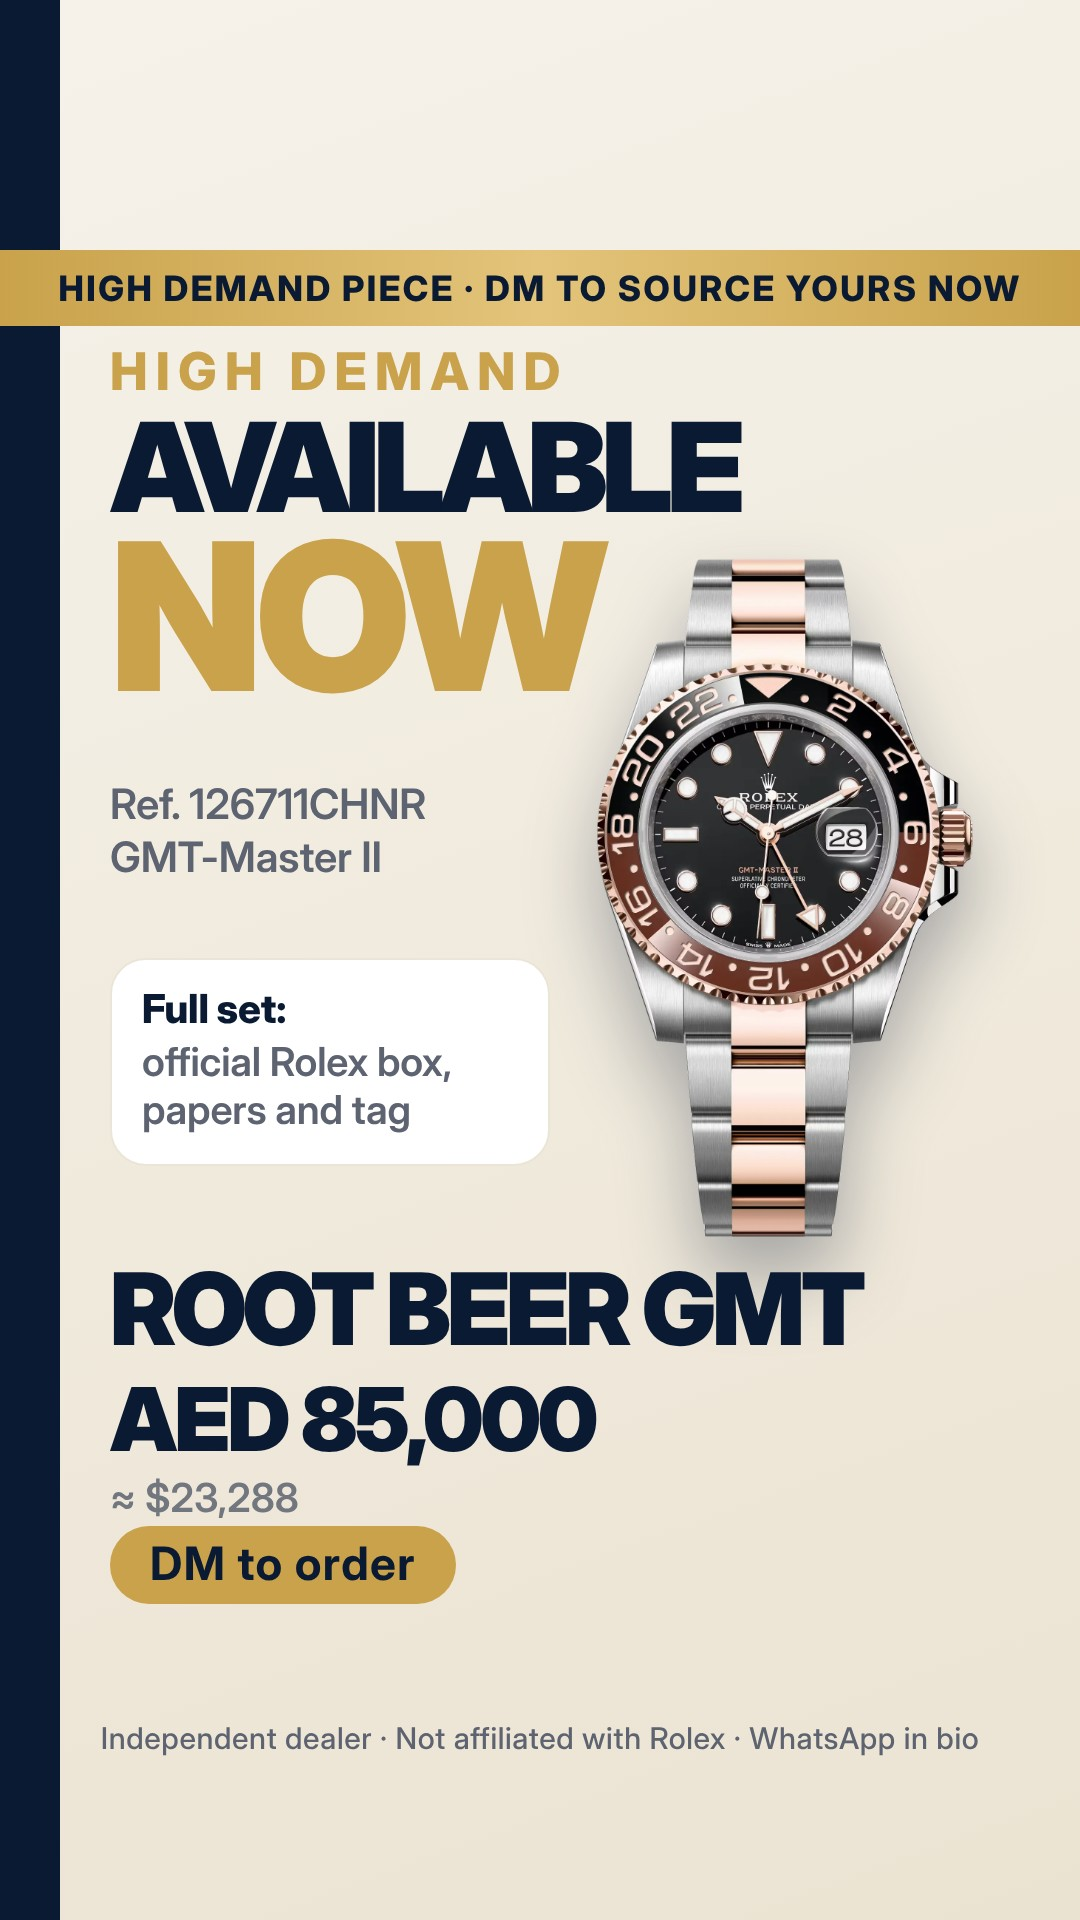
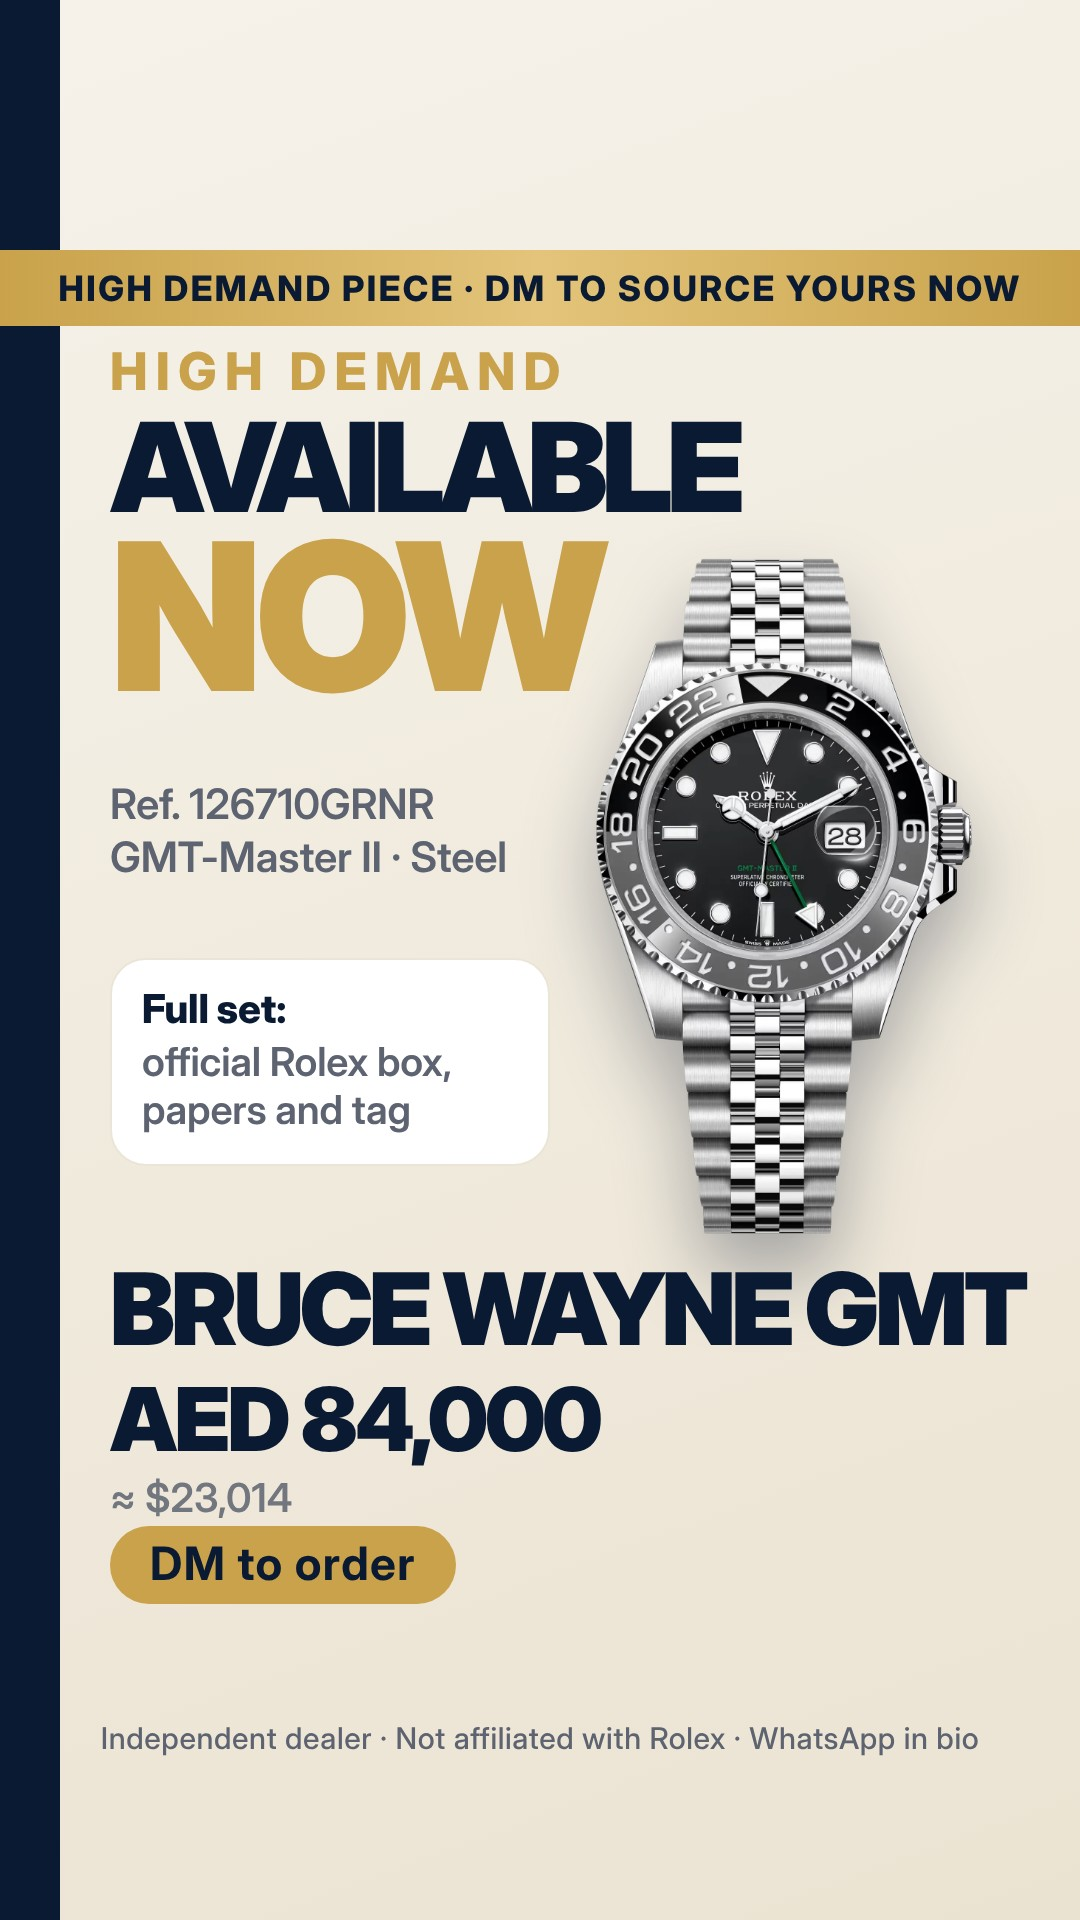
Stories: restore Pepsi, Bruce Wayne, Sprite at listing-1 prices; remove deleted listing-2 from pool
Claude-Session: https://claude.ai/code/session_0196sG434LsFacRR9je27wED

Changed region(s): [[0.1222, 0.2812, 0.9472, 0.7812], [0.275, 0.4062, 0.4889, 0.4688], [0.2139, 0.75, 0.275, 0.8125]]

diff --git a/stories/new-style-v4/templates/2026-12-17_1.html b/stories/new-style-v4/templates/2026-12-17_1.html
@@ -23,12 +23,12 @@ html,body{width:1080px;height:1920px;overflow:hidden;background:#000}
 <div class='bar' style='left:50%;top:262px;width:200px;transform:translateX(-50%)'></div>
 <div class='a c' style='top:296px;font-size:108px;font-weight:900;line-height:.98;letter-spacing:-.04em'>HIGH-DEMAND<br><span style='color:#e3c47a'>DAYTONA</span></div>
 <div class='a' style='left:539px;top:560px;width:3px;height:590px;background:linear-gradient(transparent,#c9a24b,transparent)'></div>
-<div class='a' style='left:60px;top:560px;width:440px;height:590px;display:flex;align-items:center;justify-content:center'><img src='../assets/q_rolexdaytona126506platinumicebluedial.png' style='max-width:100%;max-height:100%;object-fit:contain;filter:drop-shadow(0 30px 34px rgba(0,0,0,.6))'></div>
-<div class='a' style='left:580px;top:560px;width:440px;height:590px;display:flex;align-items:center;justify-content:center'><img src='../assets/q_rolexdaytona126506platinumicebluediamond.png' style='max-width:100%;max-height:100%;object-fit:contain;filter:drop-shadow(0 30px 34px rgba(0,0,0,.6))'></div>
+<div class='a' style='left:60px;top:560px;width:440px;height:590px;display:flex;align-items:center;justify-content:center'><img src='../assets/q_rolexdaytona126506platinumicebluearabicd.png' style='max-width:100%;max-height:100%;object-fit:contain;filter:drop-shadow(0 30px 34px rgba(0,0,0,.6))'></div>
+<div class='a' style='left:580px;top:560px;width:440px;height:590px;display:flex;align-items:center;justify-content:center'><img src='../assets/q_rolexdaytona126506platinumicebluedial.png' style='max-width:100%;max-height:100%;object-fit:contain;filter:drop-shadow(0 30px 34px rgba(0,0,0,.6))'></div>
 <div class='a' style='left:0;width:540px;top:1165px;text-align:center;font-size:68px;font-weight:800;letter-spacing:-.03em'>DAYTONA</div>
 <div class='a' style='left:540px;width:540px;top:1165px;text-align:center;font-size:68px;font-weight:800;letter-spacing:-.03em'>DAYTONA</div>
-<div class='a' style='left:0;width:540px;top:1250px;text-align:center;font-size:60px;font-weight:800;color:#e3c47a'>AED 450,000<div style='font-size:34px;font-weight:600;opacity:.85;letter-spacing:0;line-height:1.2;margin-top:2px;color:rgba(246,242,234,.85);'>≈ $123,288</div></div>
-<div class='a' style='left:540px;width:540px;top:1250px;text-align:center;font-size:60px;font-weight:800;color:#e3c47a'>AED 500,000<div style='font-size:34px;font-weight:600;opacity:.85;letter-spacing:0;line-height:1.2;margin-top:2px;color:rgba(246,242,234,.85);'>≈ $136,986</div></div>
+<div class='a' style='left:0;width:540px;top:1250px;text-align:center;font-size:60px;font-weight:800;color:#e3c47a'>AED 635,000<div style='font-size:34px;font-weight:600;opacity:.85;letter-spacing:0;line-height:1.2;margin-top:2px;color:rgba(246,242,234,.85);'>≈ $173,973</div></div>
+<div class='a' style='left:540px;width:540px;top:1250px;text-align:center;font-size:60px;font-weight:800;color:#e3c47a'>AED 450,000<div style='font-size:34px;font-weight:600;opacity:.85;letter-spacing:0;line-height:1.2;margin-top:2px;color:rgba(246,242,234,.85);'>≈ $123,288</div></div>
 <div class='a' style='left:0;width:540px;top:1378px;text-align:center;font-size:36px;font-weight:500;color:rgba(246,242,234,.8)'>Ref. 126506</div>
 <div class='a' style='left:540px;width:540px;top:1378px;text-align:center;font-size:36px;font-weight:500;color:rgba(246,242,234,.8)'>Ref. 126506</div>
 <div class='a' style='left:60px;top:1440px;width:960px;display:flex;align-items:center;gap:16px;justify-content:center;font-size:36px;font-weight:600;color:#f6f2ea;line-height:1.15'><span class='tick' style='width:43px;height:43px'></span><span>Full set: official Rolex box, papers and tag</span></div>

diff --git a/stories/new-style-v4/templates/2026-12-15_1.html b/stories/new-style-v4/templates/2026-12-15_1.html
@@ -21,10 +21,10 @@ html,body{width:1080px;height:1920px;overflow:hidden;background:#000}
 </style></head><body><div id='s' class='cream' style=""><div class='a' style='left:0;top:0;width:60px;height:1920px;background:#0b1a33'></div><div class='a' style='inset:0;transform:translateY(78px)'>
 <div class='a' style='left:110px;top:262px;font-size:52px;font-weight:800;letter-spacing:.16em;color:#c9a24b'>HIGH DEMAND</div>
 <div class='a' style='left:110px;top:332px;font-size:124px;font-weight:900;line-height:.92;letter-spacing:-.05em;color:#0b1a33'>AVAILABLE<br><span style='color:#c9a24b;font-size:206px;line-height:.9'>NOW</span></div>
-<div class='a' style='left:585px;top:480px;width:400px;height:680px;display:flex;align-items:center;justify-content:center'><img src='../assets/q_rolexdaytona126506platinumicebluearabicd.png' style='max-width:100%;max-height:100%;object-fit:contain;filter:drop-shadow(0 40px 36px rgba(11,26,51,.32))'></div>
-<div class='a' style='left:110px;top:700px;width:440px;font-size:42px;font-weight:600;line-height:1.25;color:#5d6370'>Ref. 126506<br>Platinum · Ice Blue Arabic</div>
+<div class='a' style='left:585px;top:480px;width:400px;height:680px;display:flex;align-items:center;justify-content:center'><img src='../assets/q_rolexgmtmasteriisprite126720vtnrsteeljub.png' style='max-width:100%;max-height:100%;object-fit:contain;filter:drop-shadow(0 40px 36px rgba(11,26,51,.32))'></div>
+<div class='a' style='left:110px;top:700px;width:440px;font-size:42px;font-weight:600;line-height:1.25;color:#5d6370'>Ref. 126720VTNR<br>GMT-Master II · Steel</div>
 <div class='a card' style='left:110px;top:880px;width:440px;padding:26px 30px 30px;background:#fff;border:2px solid #ebe5d8'><div style='font-size:40px;font-weight:800;color:#0b1a33;line-height:1.15'>Full set:</div><div style='font-size:40px;font-weight:600;color:#5d6370;line-height:1.2;margin-top:6px'>official Rolex box, papers and tag</div></div>
-<div class='a' style='left:110px;top:1170px;font-size:100px;font-weight:900;letter-spacing:-.04em;color:#0b1a33;white-space:nowrap'>DAYTONA</div>
-<div class='a' style='left:110px;top:1288px;font-size:88px;font-weight:900;letter-spacing:-.03em;color:#0b1a33'>AED 635,000<div style='font-size:40px;font-weight:600;opacity:.85;letter-spacing:0;line-height:1.2;margin-top:2px;color:#5d6370;'>≈ $173,973</div></div>
+<div class='a' style='left:110px;top:1170px;font-size:100px;font-weight:900;letter-spacing:-.04em;color:#0b1a33;white-space:nowrap'>SPRITE GMT</div>
+<div class='a' style='left:110px;top:1288px;font-size:88px;font-weight:900;letter-spacing:-.03em;color:#0b1a33'>AED 69,000<div style='font-size:40px;font-weight:600;opacity:.85;letter-spacing:0;line-height:1.2;margin-top:2px;color:#5d6370;'>≈ $18,904</div></div>
 <div class='a' style='left:110px;top:1448px'><span class='pill'>DM to order</span></div>
 <div class='legal' style='top:1640px;color:#5d6370'>Independent dealer · Not affiliated with Rolex · WhatsApp in bio</div></div><div class='a' style='left:0;right:0;top:250px;height:76px;background:linear-gradient(90deg,#c9a24b,#e3c47a,#c9a24b);display:flex;align-items:center;justify-content:center;font-size:35px;font-weight:800;letter-spacing:.07em;color:#0b1a33'>HIGH DEMAND PIECE · DM TO SOURCE YOURS NOW</div></div></body></html>

diff --git a/stories/new-style-v4/templates/2026-12-03_1.html b/stories/new-style-v4/templates/2026-12-03_1.html
@@ -21,10 +21,10 @@ html,body{width:1080px;height:1920px;overflow:hidden;background:#000}
 </style></head><body><div id='s' class='cream' style=""><div class='a' style='left:0;top:0;width:60px;height:1920px;background:#0b1a33'></div><div class='a' style='inset:0;transform:translateY(78px)'>
 <div class='a' style='left:110px;top:262px;font-size:52px;font-weight:800;letter-spacing:.16em;color:#c9a24b'>HIGH DEMAND</div>
 <div class='a' style='left:110px;top:332px;font-size:124px;font-weight:900;line-height:.92;letter-spacing:-.05em;color:#0b1a33'>AVAILABLE<br><span style='color:#c9a24b;font-size:206px;line-height:.9'>NOW</span></div>
-<div class='a' style='left:585px;top:480px;width:400px;height:680px;display:flex;align-items:center;justify-content:center'><img src='../assets/q_rolexgmtmasteriirootbeer126711chnrsteela.png' style='max-width:100%;max-height:100%;object-fit:contain;filter:drop-shadow(0 40px 36px rgba(11,26,51,.32))'></div>
-<div class='a' style='left:110px;top:700px;width:440px;font-size:42px;font-weight:600;line-height:1.25;color:#5d6370'>Ref. 126711CHNR<br>GMT-Master II</div>
+<div class='a' style='left:585px;top:480px;width:400px;height:680px;display:flex;align-items:center;justify-content:center'><img src='../assets/q_rolexgmtmasteriibrucewayne126710grnrstee.png' style='max-width:100%;max-height:100%;object-fit:contain;filter:drop-shadow(0 40px 36px rgba(11,26,51,.32))'></div>
+<div class='a' style='left:110px;top:700px;width:440px;font-size:42px;font-weight:600;line-height:1.25;color:#5d6370'>Ref. 126710GRNR<br>GMT-Master II · Steel</div>
 <div class='a card' style='left:110px;top:880px;width:440px;padding:26px 30px 30px;background:#fff;border:2px solid #ebe5d8'><div style='font-size:40px;font-weight:800;color:#0b1a33;line-height:1.15'>Full set:</div><div style='font-size:40px;font-weight:600;color:#5d6370;line-height:1.2;margin-top:6px'>official Rolex box, papers and tag</div></div>
-<div class='a' style='left:110px;top:1170px;font-size:100px;font-weight:900;letter-spacing:-.04em;color:#0b1a33;white-space:nowrap'>ROOT BEER GMT</div>
-<div class='a' style='left:110px;top:1288px;font-size:88px;font-weight:900;letter-spacing:-.03em;color:#0b1a33'>AED 85,000<div style='font-size:40px;font-weight:600;opacity:.85;letter-spacing:0;line-height:1.2;margin-top:2px;color:#5d6370;'>≈ $23,288</div></div>
+<div class='a' style='left:110px;top:1170px;font-size:100px;font-weight:900;letter-spacing:-.04em;color:#0b1a33;white-space:nowrap'>BRUCE WAYNE GMT</div>
+<div class='a' style='left:110px;top:1288px;font-size:88px;font-weight:900;letter-spacing:-.03em;color:#0b1a33'>AED 84,000<div style='font-size:40px;font-weight:600;opacity:.85;letter-spacing:0;line-height:1.2;margin-top:2px;color:#5d6370;'>≈ $23,014</div></div>
 <div class='a' style='left:110px;top:1448px'><span class='pill'>DM to order</span></div>
 <div class='legal' style='top:1640px;color:#5d6370'>Independent dealer · Not affiliated with Rolex · WhatsApp in bio</div></div><div class='a' style='left:0;right:0;top:250px;height:76px;background:linear-gradient(90deg,#c9a24b,#e3c47a,#c9a24b);display:flex;align-items:center;justify-content:center;font-size:35px;font-weight:800;letter-spacing:.07em;color:#0b1a33'>HIGH DEMAND PIECE · DM TO SOURCE YOURS NOW</div></div></body></html>

diff --git a/stories/new-style-v4/templates/2026-12-09_1.html b/stories/new-style-v4/templates/2026-12-09_1.html
@@ -20,12 +20,12 @@ html,body{width:1080px;height:1920px;overflow:hidden;background:#000}
 .card{border-radius:36px}
 </style></head><body><div id='s' class='flat' style=""><div class='a' style='inset:0;transform:translateY(78px)'>
 <div class='a' style='left:110px;top:262px;font-size:48px;font-weight:700;letter-spacing:.22em;color:#c9a24b'>AVAILABLE NOW</div>
-<div class='a' style='left:110px;top:330px;width:860px;font-size:118px;font-weight:900;line-height:.92;letter-spacing:-.045em'>GMT-MASTER II</div>
+<div class='a' style='left:110px;top:330px;width:860px;font-size:118px;font-weight:900;line-height:.92;letter-spacing:-.045em'>PEPSI GMT</div>
 <div class='a card' style='left:110px;top:570px;width:860px;height:600px;background:#f6f2ea;box-shadow:0 30px 60px rgba(0,0,0,.4)'></div>
 <div class='a' style='left:110px;top:570px;width:18px;height:600px;background:linear-gradient(180deg,#c9a24b,#e3c47a);border-radius:36px 0 0 36px'></div>
-<div class='a' style='left:250px;top:590px;width:580px;height:560px;display:flex;align-items:center;justify-content:center'><img src='../assets/q_rolexgmtmasterii126713grnrsteelandyellow.png' style='max-width:100%;max-height:100%;object-fit:contain;filter:drop-shadow(0 26px 28px rgba(11,26,51,.35))'></div>
+<div class='a' style='left:250px;top:590px;width:580px;height:560px;display:flex;align-items:center;justify-content:center'><img src='../assets/q_rolexgmtmasteriipepsi126710blrosteeljubi.png' style='max-width:100%;max-height:100%;object-fit:contain;filter:drop-shadow(0 26px 28px rgba(11,26,51,.35))'></div>
 <div class='a' style='right:150px;top:1128px'><span class='pill' style='box-shadow:0 10px 24px rgba(0,0,0,.4)'>DM to order</span></div>
-<div class='a' style='left:110px;top:1210px;font-size:88px;font-weight:900;letter-spacing:-.03em;white-space:nowrap'>AED 86,000<div style='font-size:40px;font-weight:600;opacity:.85;letter-spacing:0;line-height:1.2;margin-top:2px;color:inherit;'>≈ $23,562</div></div>
-<div class='a' style='left:110px;top:1360px;font-size:40px;font-weight:500;color:#e3c47a'>Ref. 126713GRNR · Yellow Rolesor · Black</div>
+<div class='a' style='left:110px;top:1210px;font-size:88px;font-weight:900;letter-spacing:-.03em;white-space:nowrap'>AED 115,000<div style='font-size:40px;font-weight:600;opacity:.85;letter-spacing:0;line-height:1.2;margin-top:2px;color:inherit;'>≈ $31,507</div></div>
+<div class='a' style='left:110px;top:1360px;font-size:40px;font-weight:500;color:#e3c47a'>Ref. 126710BLRO · GMT-Master II · Steel</div>
 <div class='a card' style='left:110px;top:1440px;width:860px;height:112px;border:4px solid #c9a24b;display:flex;align-items:center;padding:0 30px;gap:18px'><span class='tick' style='width:54px;height:54px'></span><span style='font-size:38px;font-weight:600'>Full set: official Rolex box, papers and tag</span></div>
 <div class='legal' style='top:1640px;color:rgba(246,242,234,.6)'>Independent dealer · Not affiliated with Rolex · WhatsApp in bio</div></div><div class='a' style='left:0;right:0;top:250px;height:76px;background:linear-gradient(90deg,#c9a24b,#e3c47a,#c9a24b);display:flex;align-items:center;justify-content:center;font-size:35px;font-weight:800;letter-spacing:.07em;color:#0b1a33'>HIGH DEMAND PIECE · DM TO SOURCE YOURS NOW</div></div></body></html>

diff --git a/stories/new-style-v4/build_queue.py b/stories/new-style-v4/build_queue.py
@@ -14,7 +14,7 @@ Q = ROOT / "queue"
 Q.mkdir(exist_ok=True)
 START = datetime.date(2026, 11, 19)
 DAYS = 30
-EXCLUDE_REFS = {"126710BLRO", "126710GRNR", "126720VTNR"}  # Pepsi, Bruce Wayne, Sprite: duplicate listings with different prices
+EXCLUDE_REFS = set()  # listing 2 duplicates deleted from the store; listing 1 (brand new) kept
 pool = json.load(open(ROOT.parent / "new-style" / "pool.json"))
 
 

diff --git a/stories/new-style-v4/calendar.md b/stories/new-style-v4/calendar.md
@@ -16,19 +16,19 @@
 | 2026-11-30 | Knowledge | - | The newest family · What is the Land-Dweller? (qa_card)<br>Buying safely · steps 1 and 2 · Decide, then get a quote (steps)<br>Check the back · The see-through caseback (myth_fact) | - |
 | 2026-12-01 | Available Now | hero | PAUL NEWMAN<br>DATEJUST 41<br>DAY-DATE 40 | - |
 | 2026-12-02 | Knowledge | - | Rolex family · Land-Dweller · 2025 (big_number)<br>Sizes · Case sizes by family (ladder)<br>Check the seller · A real dealer is open (checklist) | - |
-| 2026-12-03 | Available Now | cream | ROOT BEER GMT<br>SKY-DWELLER<br>LAND-DWELLER 36 | demand band on story 1 |
+| 2026-12-03 | Available Now | cream | BRUCE WAYNE GMT<br>SKY-DWELLER<br>LAND-DWELLER 36 | demand band on story 1 |
 | 2026-12-04 | Knowledge | - | Datejust · The three combinations to know (steps)<br>Watch complications · What is a chronograph? (qa_card)<br>Quote and compare · Your reference point (quote_card) | - |
 | 2026-12-05 | Available Now | pair | SUBMARINER + PIKACHU<br>DATEJUST 41 + DATEJUST 41<br>DATEJUST 41 + DATEJUST 41 | - |
 | 2026-12-06 | Knowledge | - | Rolex family · Yacht-Master II · 2007 (big_number)<br>Colour · Rolex only makes plain dials (myth_fact)<br>Feel it in your hand · Weight, bracelet, bezel (checklist) | - |
 | 2026-12-07 | Available Now | set | DAYTONA<br>DATEJUST 41<br>DAY-DATE 40 | - |
 | 2026-12-08 | Knowledge | - | Watch complications · Annual or perpetual calendar? (compare_table)<br>Quick rules · Before paying (do_dont)<br>Day-Date dials · What is a stone dial? (qa_card) | - |
-| 2026-12-09 | Available Now | editorial | GMT-MASTER II<br>SKY-DWELLER<br>AQUANAUT | demand band on story 1 |
+| 2026-12-09 | Available Now | editorial | PEPSI GMT<br>SKY-DWELLER<br>AQUANAUT | demand band on story 1 |
 | 2026-12-10 | Knowledge | - | Rolex family · Oyster Perpetual · 1931 (big_number)<br>Buying safely · steps 7 and 8 · Payment order and inspection (steps)<br>Check the price · The price tells a story (quote_card) | - |
 | 2026-12-11 | Available Now | plaque | DAYTONA<br>OYSTER PERP. 31<br>DATEJUST 41 | - |
 | 2026-12-12 | Knowledge | - | Watch complications · What is a world timer? (qa_card)<br>Which GMT are you? · Batman or Batgirl? (compare_table)<br>Delivery · How it arrives (timeline) | - |
 | 2026-12-13 | Available Now | hero | DAYTONA<br>DATEJUST 41<br>DAYTONA | - |
 | 2026-12-14 | Knowledge | - | Rolex family · Datejust · 1945 (big_number)<br>Waterproof · Is every Rolex a diver? (myth_fact)<br>The last step · Get an independent check (steps) | - |
-| 2026-12-15 | Available Now | cream | DAYTONA<br>SKY-DWELLER<br>LAND-DWELLER 36 | demand band on story 1 |
+| 2026-12-15 | Available Now | cream | SPRITE GMT<br>SKY-DWELLER<br>LAND-DWELLER 36 | demand band on story 1 |
 | 2026-12-16 | Knowledge | - | Sailing · What is a Yacht-Master? (qa_card)<br>The most important rule · Never pay in full first (quote_card)<br>Which GMT are you? · Pepsi or Bruce Wayne? (compare_table) | - |
 | 2026-12-17 | Available Now | pair | DAYTONA + DAYTONA<br>DATEJUST 41 + DATEJUST 41<br>DATEJUST 41 + DATEJUST 41 | - |
 | 2026-12-18 | Knowledge | - | Rolex family · Sky-Dweller · 2012 (big_number)<br>Buying safely · steps 5 and 6 · Full set and warranty date (steps)<br>Rolex bezels · Fluted, smooth or tachymetric? (qa_card) | - |
